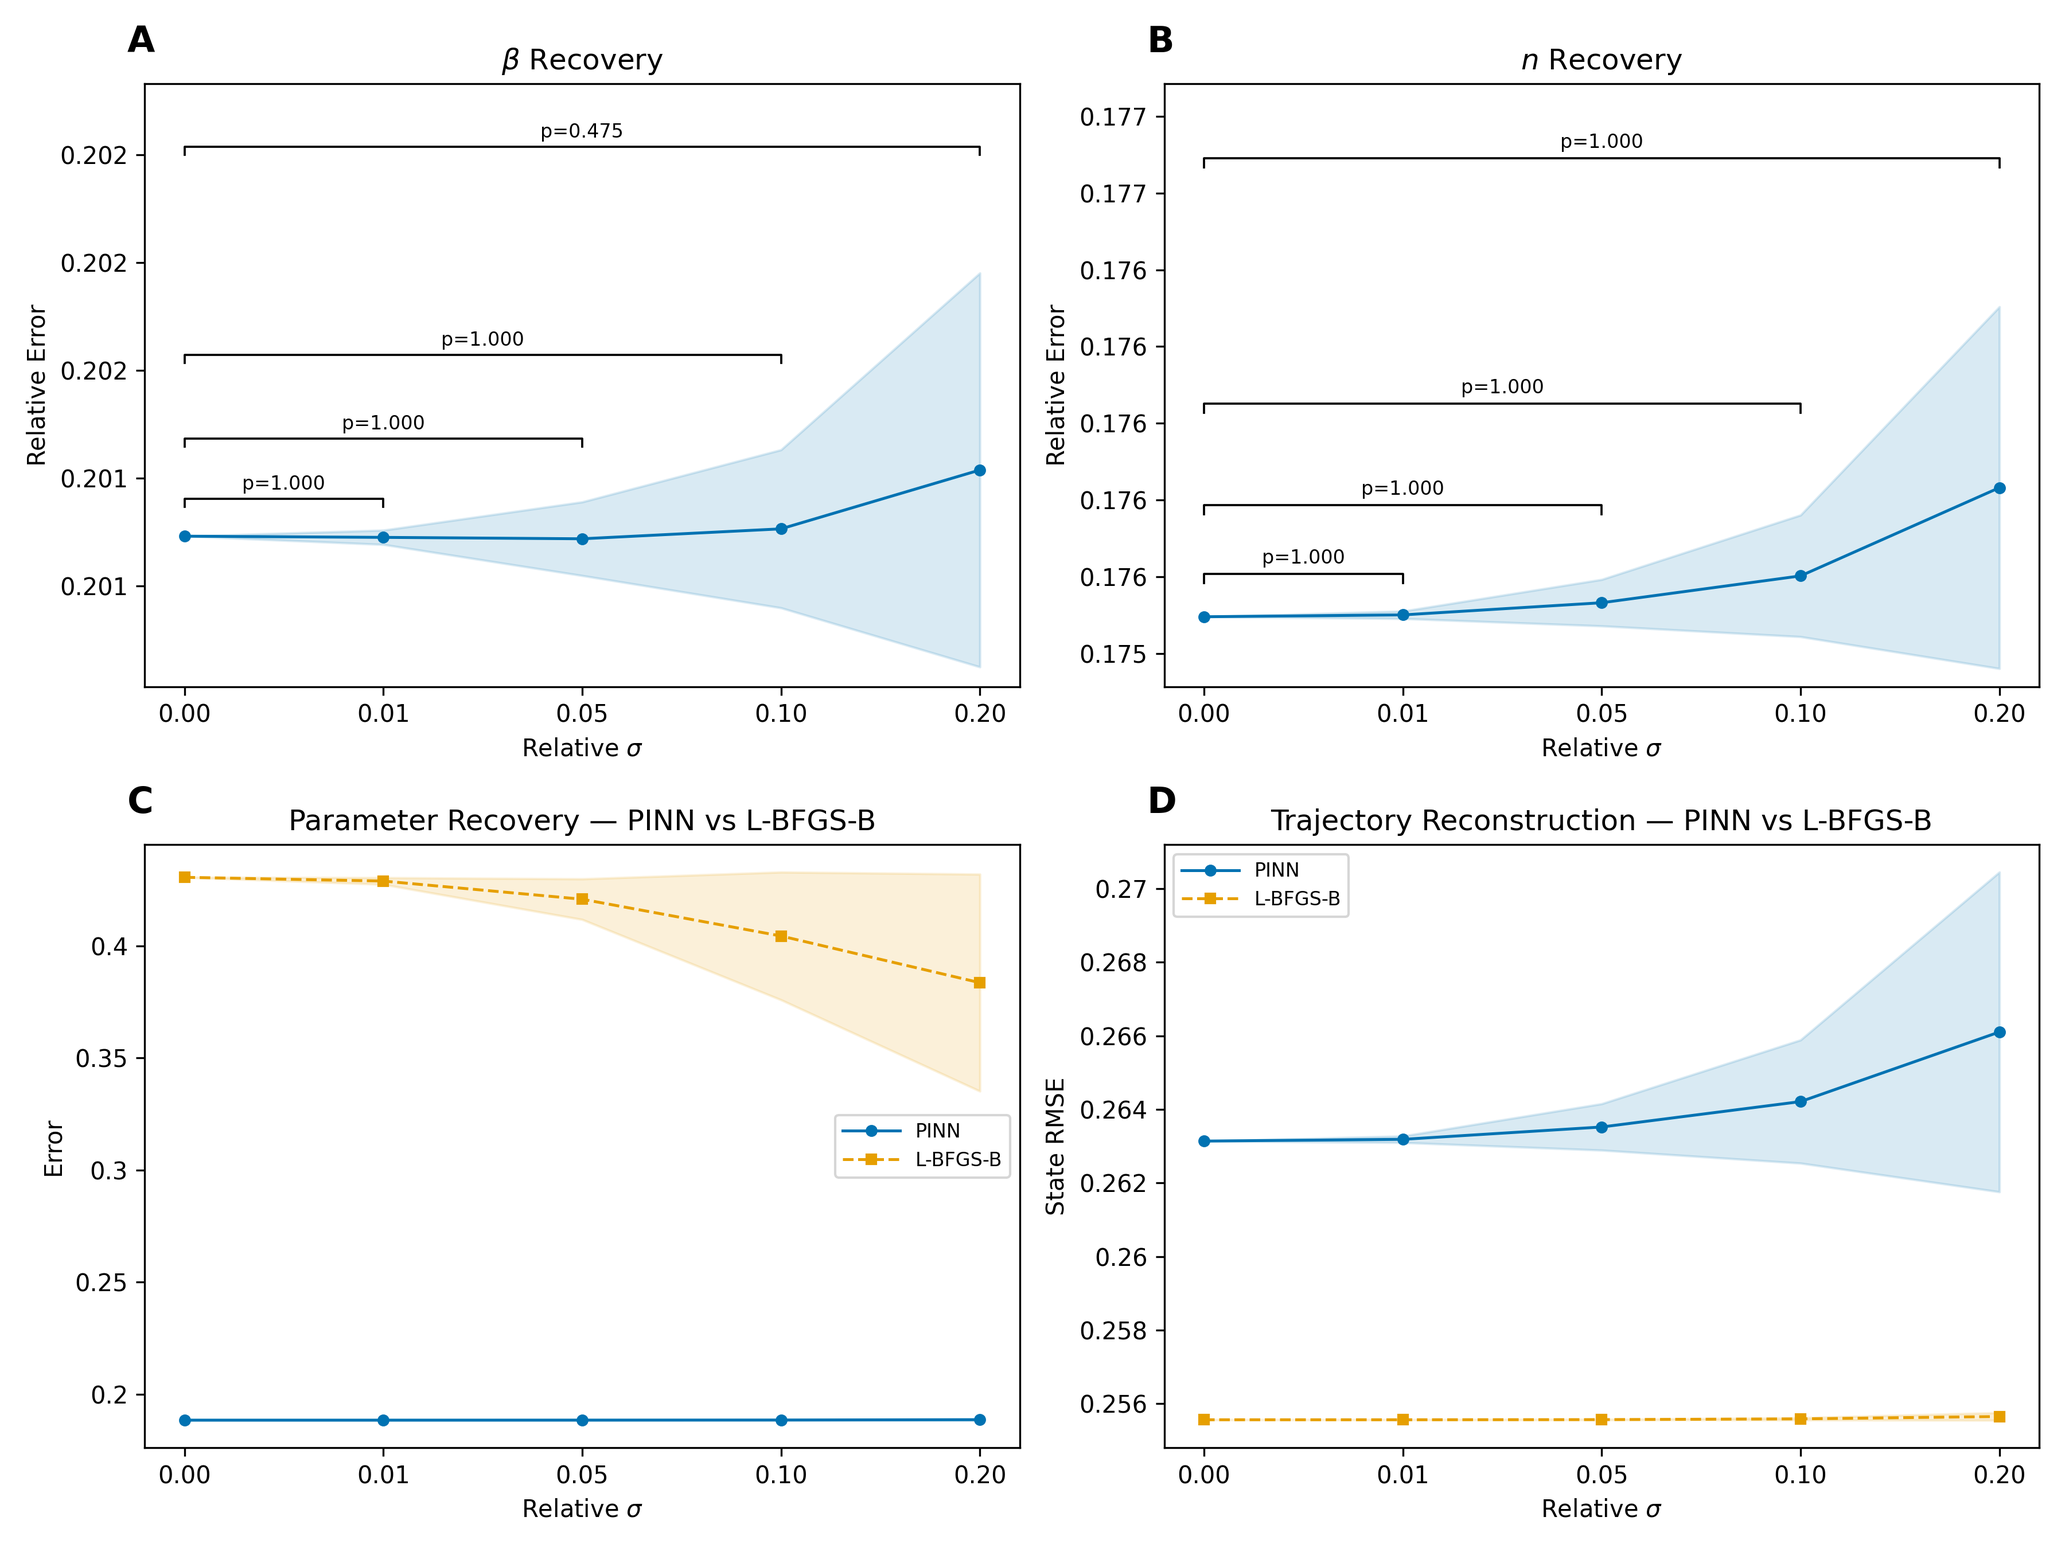
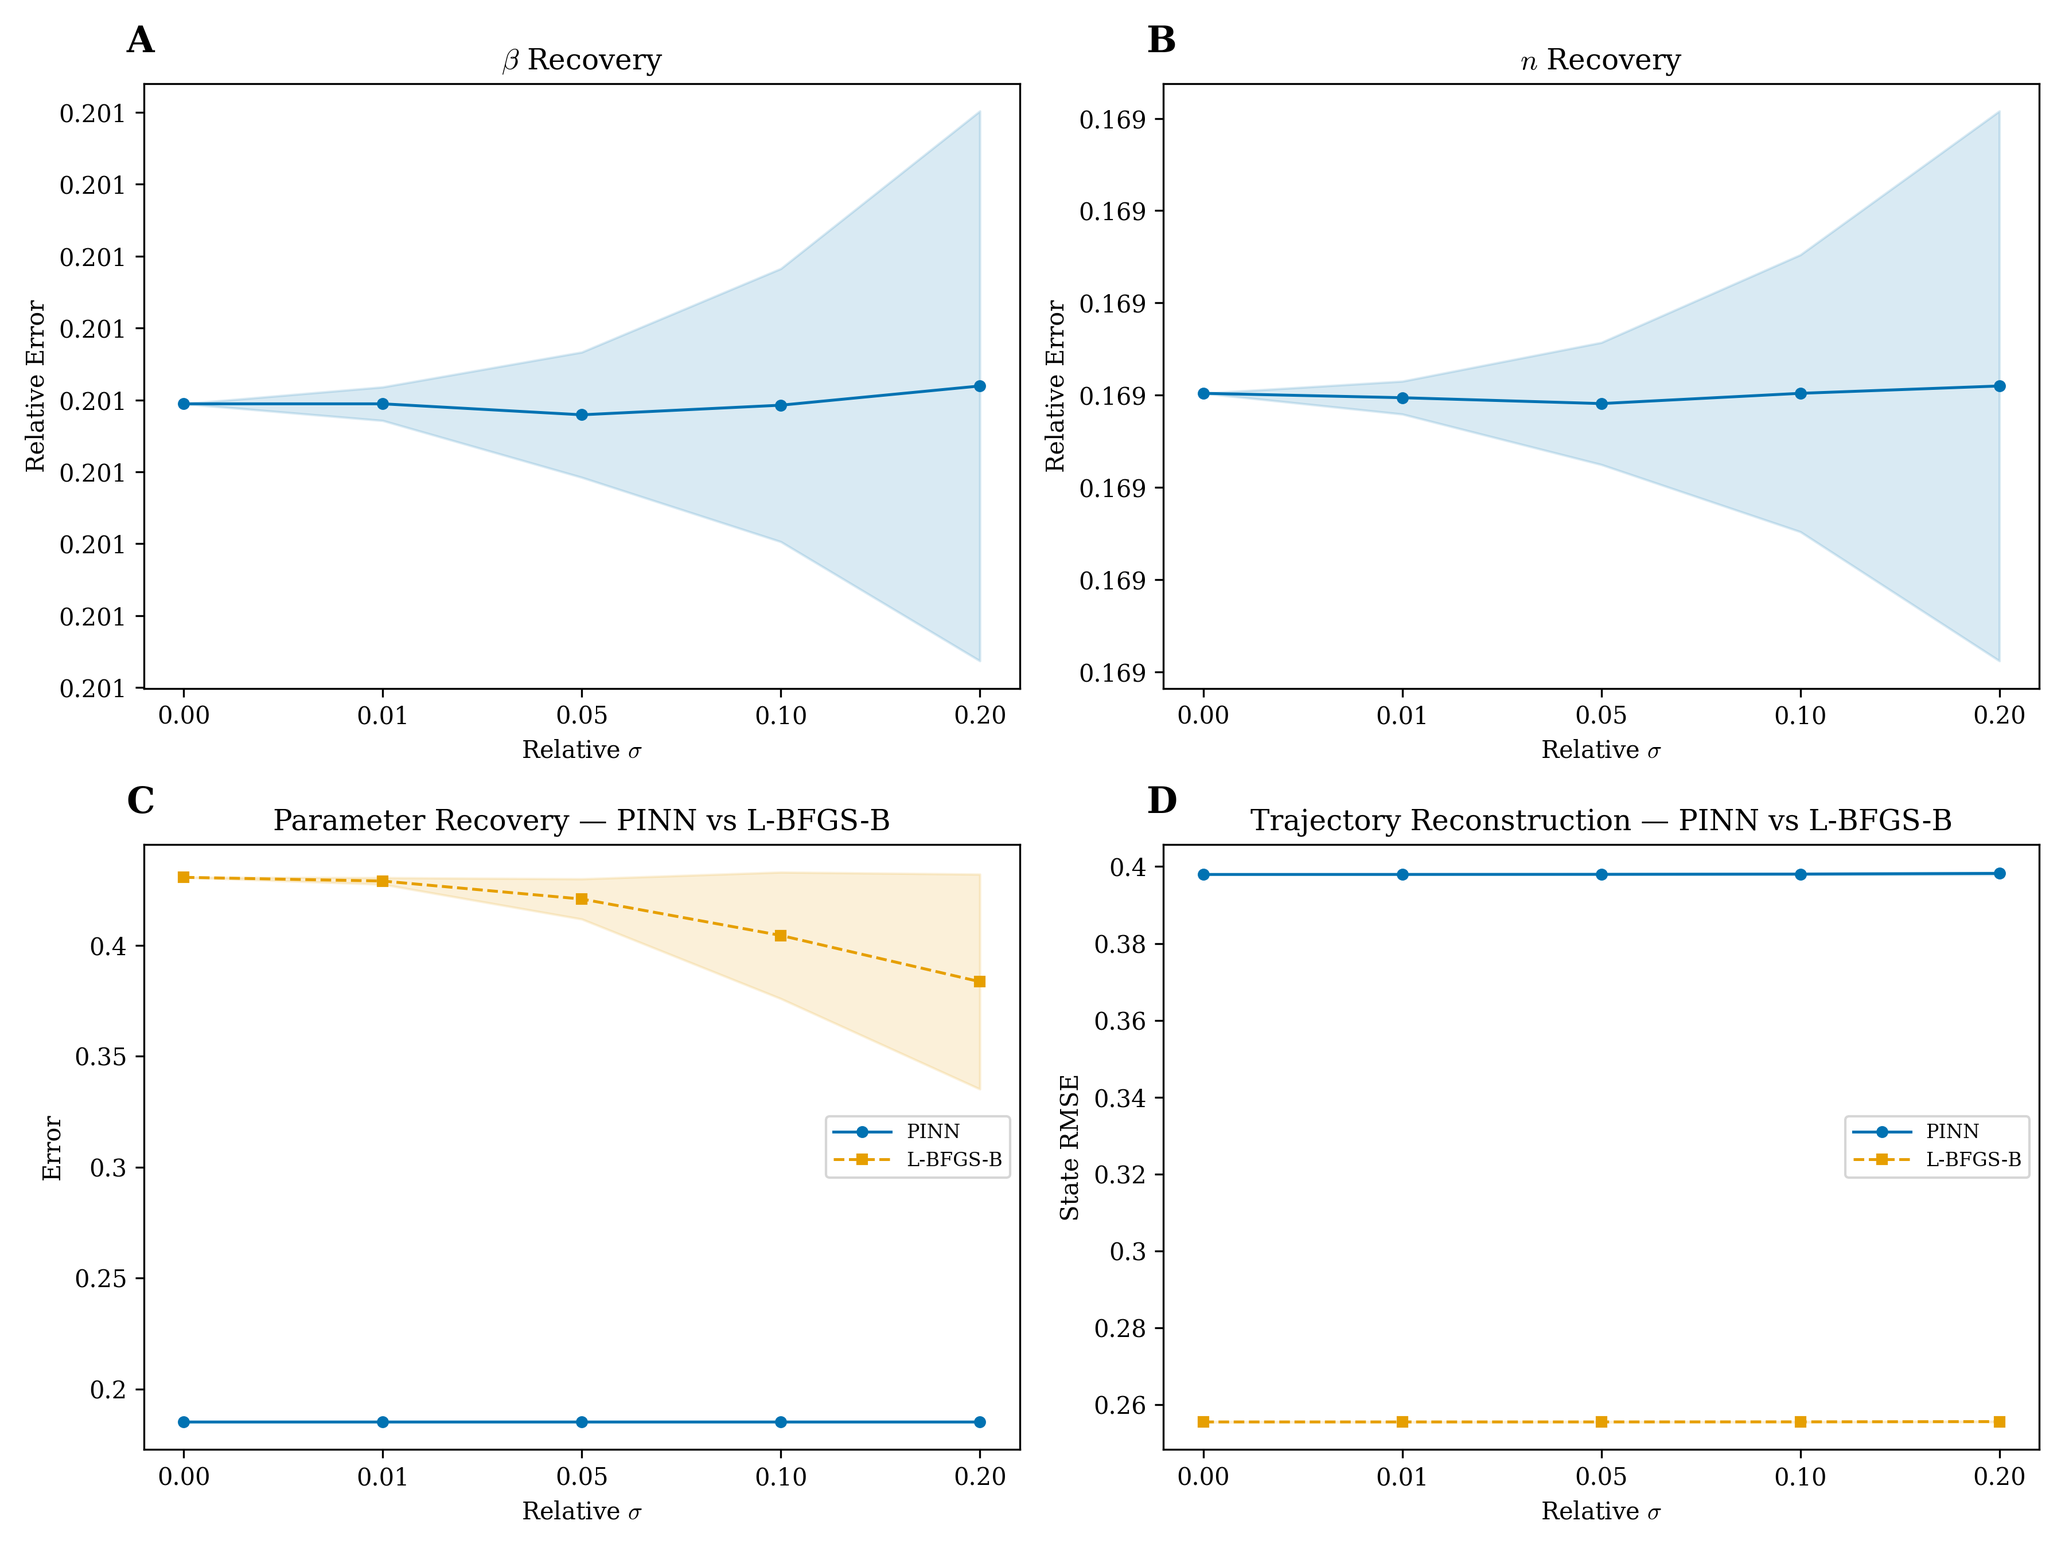
new tests, readme

diff --git a/scripts/experiments/exp1_noise_sweep.py b/scripts/experiments/exp1_noise_sweep.py
@@ -21,7 +21,13 @@ Figure: 4-panel 2×2 layout (12×9), line plots with mean ± SD
   - Panel D (1,1): state RMSE — PINN vs L-BFGS-B
 
 Significance: two-sided Mann–Whitney U, Holm–Bonferroni corrected, vs σ = 0 baseline.
-Applied to PINN results in panels A and B only.
+Applied to PINN results in panels A and B only; only significant comparisons
+(p < 0.05) are drawn as brackets — non-significant ones are omitted from the
+figure and reported in the text/results instead.
+Panels C and D instead compare PINN vs L-BFGS-B at each noise level (uncorrected
+two-sided Mann–Whitney U, same convention as the PINN-vs-classical comparisons in
+exp2/exp3/exp6); the curves never overlap, so significance is not marked on the
+figure and is reported in the text/results instead.
 
 Key finding expected: parameter recovery is relatively stable across this noise range;
 trajectory RMSE grows faster because the observation loss directly penalises trajectory
@@ -47,7 +53,9 @@ from experiments.experiment_utils import (
     ensure_project_directories,
     finalize_figure,
     make_synthetic_dataset,
+    mann_whitney_p_value,
     metric_values_by_group,
+    p_value_to_stars,
     pairwise_significance,
     write_csv,
     write_run_manifest,
@@ -225,11 +233,58 @@ def main():
     n_vals_by_noise = metric_values_by_group(raw_rows, "noise_level", "n_rel_error")
     parameter_vals_by_noise = metric_values_by_group(raw_rows, "noise_level", "parameter_rel_error")
     state_vals_by_noise = metric_values_by_group(raw_rows, "noise_level", "state_rmse")
+    cls_parameter_vals_by_noise = metric_values_by_group(raw_rows, "noise_level", "classical_parameter_rel_error")
+    cls_state_vals_by_noise = metric_values_by_group(raw_rows, "noise_level", "classical_state_rmse")
 
     beta_significance = pairwise_significance(beta_vals_by_noise, noise_comparisons)
     n_significance = pairwise_significance(n_vals_by_noise, noise_comparisons)
-    parameter_significance = pairwise_significance(parameter_vals_by_noise, noise_comparisons)
-    state_significance = pairwise_significance(state_vals_by_noise, noise_comparisons)
+
+    # PINN vs L-BFGS-B at each noise level (panels C/D), not vs the σ = 0 baseline.
+    parameter_pinn_vs_classical_p = {
+        v: mann_whitney_p_value(parameter_vals_by_noise[v], cls_parameter_vals_by_noise[v])
+        for v in noise_values
+    }
+    state_pinn_vs_classical_p = {
+        v: mann_whitney_p_value(state_vals_by_noise[v], cls_state_vals_by_noise[v])
+        for v in noise_values
+    }
+
+    # Significance is not fully shown on the figure (only-significant brackets in A/B,
+    # no markers at all in C/D) — exact p-values for the results text live here instead.
+    significance_rows = []
+    for v in noise_values:
+        if v == baseline_noise:
+            continue
+        for comparison_name, significance in (("beta_vs_sigma0", beta_significance), ("n_vs_sigma0", n_significance)):
+            entry = significance.get((baseline_noise, v)) or significance.get((v, baseline_noise))
+            significance_rows.append(
+                {
+                    "comparison": comparison_name,
+                    "noise_level": v,
+                    "raw_p_value": entry["raw_p_value"],
+                    "adjusted_p_value": entry["adjusted_p_value"],
+                    "stars": entry["stars"],
+                }
+            )
+    for v in noise_values:
+        for comparison_name, p_value in (
+            ("parameter_pinn_vs_classical", parameter_pinn_vs_classical_p[v]),
+            ("state_pinn_vs_classical", state_pinn_vs_classical_p[v]),
+        ):
+            significance_rows.append(
+                {
+                    "comparison": comparison_name,
+                    "noise_level": v,
+                    "raw_p_value": p_value,
+                    "adjusted_p_value": "",
+                    "stars": p_value_to_stars(p_value),
+                }
+            )
+    write_csv(
+        os.path.join(results_dir, "exp1_noise_sweep_significance.csv"),
+        significance_rows,
+        ["comparison", "noise_level", "raw_p_value", "adjusted_p_value", "stars"],
+    )
 
     plt.rcParams['axes.formatter.useoffset'] = False
 
@@ -258,7 +313,8 @@ def main():
     beta_tops = {v: beta_means[i] + (beta_stds[i] if show_eb else 0.0) for i, v in enumerate(noise_values)}
     annotate_pairwise_comparisons(
         axes[0, 0], x_positions=position_by_noise, top_values=beta_tops,
-        comparisons=noise_comparisons, significance=beta_significance, use_adjusted_p_value=True)
+        comparisons=noise_comparisons, significance=beta_significance, use_adjusted_p_value=True,
+        only_significant=True)
     _xformat(axes[0, 0])
     axes[0, 0].set_ylabel("Relative Error")
     axes[0, 0].set_title(r"$\beta$ Recovery")
@@ -269,7 +325,8 @@ def main():
     n_tops = {v: n_means[i] + (n_stds[i] if show_eb else 0.0) for i, v in enumerate(noise_values)}
     annotate_pairwise_comparisons(
         axes[0, 1], x_positions=position_by_noise, top_values=n_tops,
-        comparisons=noise_comparisons, significance=n_significance, use_adjusted_p_value=True)
+        comparisons=noise_comparisons, significance=n_significance, use_adjusted_p_value=True,
+        only_significant=True)
     _xformat(axes[0, 1])
     axes[0, 1].set_ylabel("Relative Error")
     axes[0, 1].set_title(r"$n$ Recovery")

diff --git a/scripts/experiments/exp3_sampling_density.py b/scripts/experiments/exp3_sampling_density.py
@@ -86,6 +86,7 @@ results_dir = "results/exp3_sampling_density"
 figure_path = "figures/exp3_sampling_density.png"  # kept for pilot compatibility
 table_path = "tables/exp3_sampling_density.tex"
 observability_table_path = "tables/observability.tex"
+exp2_results_dir = "results/exp2_partial_observation"
 
 _X0 = [1.0, 1.0, 1.2]
 
@@ -194,6 +195,7 @@ def _write_sampling_density_table(path, summary_rows, raw_rows):
 
     footer = (
         r"\bottomrule" + "\n"
+        r"\multicolumn{6}{l}{\footnotesize *** $p < 0.001$, ** $p < 0.01$, * $p < 0.05$.} \\" + "\n"
         r"\end{tabular}" + "\n"
         r"\end{table}"
     )
@@ -207,10 +209,8 @@ def _write_sampling_density_table(path, summary_rows, raw_rows):
     print(f"LaTeX table written to {path}")
 
 
-def _load_exp2_raw(results_base="results"):
-    csv_path = os.path.join(
-        results_base, "exp2_partial_observation", "exp2_partial_observation_raw.csv"
-    )
+def _load_exp2_raw(exp2_results_dir):
+    csv_path = os.path.join(exp2_results_dir, "exp2_partial_observation_raw.csv")
     if not os.path.exists(csv_path):
         return None
     rows = []
@@ -318,6 +318,7 @@ def _write_combined_observability_table(
 
     footer = (
         r"\bottomrule" + "\n"
+        r"\multicolumn{6}{l}{\footnotesize *** $p < 0.001$, ** $p < 0.01$, * $p < 0.05$.} \\" + "\n"
         r"\end{tabular}" + "\n"
         r"\end{table}"
     )
@@ -425,8 +426,7 @@ def main():
 
     _write_sampling_density_table(table_path, summary_rows, raw_rows)
 
-    results_base = os.path.dirname(os.path.abspath(results_dir))
-    partial_obs_raw = _load_exp2_raw(results_base=results_base)
+    partial_obs_raw = _load_exp2_raw(exp2_results_dir)
     if partial_obs_raw is not None:
         _write_combined_observability_table(
             observability_table_path, partial_obs_raw, summary_rows, raw_rows,

diff --git a/scripts/experiments/experiment_utils.py b/scripts/experiments/experiment_utils.py
@@ -30,6 +30,13 @@ import tensorflow as tf
 
 from data.generate_data import protein_repressilator_rhs # Import the ODE function
 
+# Match the paper's LaTeX typesetting (Computer Modern) without requiring a LaTeX install.
+plt.rcParams.update({
+    "font.family": "serif",
+    "font.serif": ["Computer Modern Roman", "CMU Serif", "DejaVu Serif"],
+    "mathtext.fontset": "cm",
+})
+
 # Default parameters for synthetic dataset generation
 default_x0 = [1.0, 1.0, 1.2]
 default_t_max = 20.0
@@ -224,6 +231,7 @@ def annotate_pairwise_comparisons(
     comparisons,
     significance,
     use_adjusted_p_value=True,
+    only_significant=False,
 ):
     if not comparisons:
         return
@@ -247,6 +255,8 @@ def annotate_pairwise_comparisons(
     stack_step = 0.12 * value_span
     label_offset = 0.02 * value_span
 
+    p_value_key = "adjusted_p_value" if use_adjusted_p_value else "raw_p_value"
+
     valid_comparisons = []
     for group_a, group_b in comparisons:
         if (
@@ -255,6 +265,11 @@ def annotate_pairwise_comparisons(
             and group_a in top_values
             and group_b in top_values
         ):
+            if only_significant:
+                entry = significance.get((group_a, group_b)) or significance.get((group_b, group_a))
+                p_value = float(entry.get(p_value_key, float("nan"))) if entry else float("nan")
+                if not p_value_to_stars(p_value):
+                    continue
             valid_comparisons.append((group_a, group_b))
     if not valid_comparisons:
         return

diff --git a/scripts/experiments/run_pilot.py b/scripts/experiments/run_pilot.py
@@ -10,10 +10,10 @@ It overrides a small subset of experiment globals at runtime:
   - figure_path    → figures/pilot_<exp_name>.png
 
 Usage:
-  python run_pilot.py                          # all experiments, 100 iters, full seed set
-  python run_pilot.py --train-iterations 500   # slightly more converged check
-  python run_pilot.py --seeds 1                # 1 seed per experiment
-  python run_pilot.py --only exp1_noise_sweep exp4_initial_guess
+  python scripts/experiments/run_pilot.py                          # all experiments, 100 iters, full seed set
+  python scripts/experiments/run_pilot.py --train-iterations 500   # slightly more converged check
+  python scripts/experiments/run_pilot.py --seeds 1                # 1 seed per experiment
+  python scripts/experiments/run_pilot.py --only exp1_noise_sweep exp4_initial_guess
 """
 
 from __future__ import annotations
@@ -26,7 +26,8 @@ from dataclasses import dataclass
 from typing import Any, Dict
 
 
-ROOT = os.path.dirname(os.path.abspath(__file__))
+# Project root, i.e. two levels above this file (scripts/experiments/run_pilot.py)
+ROOT = os.path.dirname(os.path.dirname(os.path.dirname(os.path.abspath(__file__))))
 if ROOT not in sys.path:
     sys.path.insert(0, ROOT)
 

diff --git a/tables/exp6_loss_weights.tex b/tables/exp6_loss_weights.tex
@@ -1,6 +1,6 @@
 \begin{table}[htbp]
 \centering
-\caption{Physics loss weight sensitivity. Parameter error and state RMSE (mean $\pm$ SD, $n = 5$ seeds) for PINN across five values of the physics loss weight $\lambda_f$ ($\lambda_0 = \lambda_y = 1$ fixed). $p$-values (two-sided Mann--Whitney U) compare each $\lambda_f$ to the baseline $\lambda_f = 1$.}
+\caption{Physics loss weight sensitivity. $\beta$ error, $n$ error, and state RMSE (mean $\pm$ SD, $n = 5$ seeds) for PINN across five values of the physics loss weight $\lambda_f$ ($\lambda_0 = \lambda_y = 1$ fixed). $p$-values (two-sided Mann--Whitney U) compare each $\lambda_f$ to the baseline $\lambda_f = 1$.}
 \label{tab:exp6_loss_weights}
 \begin{tabular}{lccccc}
 \toprule
@@ -12,5 +12,6 @@ $1.0$ (baseline) & $0.201 \pm 0.000$ & $0.176 \pm 0.000$ & $0.264 \pm 0.001$ & -
 $10.0$ & $0.202 \pm 0.000$ & $0.174 \pm 0.000$ & $0.270 \pm 0.000$ & $p = 0.008$ ** & $p = 0.008$ ** \\
 $100.0$ & $0.202 \pm 0.000$ & $0.174 \pm 0.000$ & $0.271 \pm 0.000$ & $p = 0.008$ ** & $p = 0.011$ * \\
 \bottomrule
+\multicolumn{6}{l}{\footnotesize *** $p < 0.001$, ** $p < 0.01$, * $p < 0.05$.} \\
 \end{tabular}
 \end{table}

diff --git a/scripts/experiments/exp4_initial_guess.py b/scripts/experiments/exp4_initial_guess.py
@@ -141,7 +141,7 @@ def main():
 
     plt.rcParams['axes.formatter.useoffset'] = False
 
-    fig, ax = plt.subplots(1, 1, figsize=(8, 6))
+    fig, ax = plt.subplots(1, 1, figsize=(5, 4.2))
 
     vmax = float(np.nanmax(combined_heatmap))
 
@@ -152,8 +152,8 @@ def main():
     )
     ax.set_xticks(range(len(beta_guesses)), [str(v) for v in beta_guesses])
     ax.set_yticks(range(len(n_guesses)), [str(v) for v in n_guesses])
-    ax.set_xlabel(r"Initial $\beta_0$")
-    ax.set_ylabel(r"Initial $n_0$")
+    ax.set_xlabel(r"Initial $\beta_0$", fontsize=11)
+    ax.set_ylabel(r"Initial $n_0$", fontsize=11)
     ax.set_title("Sensitivity to Initial Parameter Guess")
 
     if star_bx is not None and star_nx is not None:

diff --git a/tables/exp5_regime_comparison.tex b/tables/exp5_regime_comparison.tex
@@ -12,5 +12,6 @@ Oscillatory ($\beta=5$) & $0.201 \pm 0.000$ & $0.176 \pm 0.000$ & $0.264 \pm 0.0
 Stable ($\beta=8$) & $0.497 \pm 0.000$ & $0.627 \pm 0.000$ & $0.602 \pm 0.000$ & -- & -- \\
 Oscillatory ($\beta=8$) & $0.498 \pm 0.000$ & $0.184 \pm 0.000$ & $0.861 \pm 0.002$ & $p = 0.024$ * & $p = 0.024$ * \\
 \bottomrule
+\multicolumn{6}{l}{\footnotesize *** $p < 0.001$, ** $p < 0.01$, * $p < 0.05$.} \\
 \end{tabular}
 \end{table}

diff --git a/tables/observability.tex b/tables/observability.tex
@@ -19,5 +19,6 @@ Condition & PINN & L-BFGS-B & PINN & L-BFGS-B & $p$ (PINN vs L-BFGS-B) \\
 \quad 25 & $0.188 \pm 0.000$ & $0.318 \pm 0.117$ & $0.264 \pm 0.001$ & $0.256 \pm 0.000$ & $p = 0.151$ \\
 \quad 10 & $0.188 \pm 0.000$ & $0.534 \pm 0.202$ & $0.267 \pm 0.001$ & $0.256 \pm 0.001$ & $p = 0.151$ \\
 \bottomrule
+\multicolumn{6}{l}{\footnotesize *** $p < 0.001$, ** $p < 0.01$, * $p < 0.05$.} \\
 \end{tabular}
 \end{table}

diff --git a/tables/exp2_partial_observation.tex b/tables/exp2_partial_observation.tex
@@ -12,5 +12,6 @@ Repressors & PINN & L-BFGS-B & PINN & L-BFGS-B & $p$ (PINN vs L-BFGS-B) \\
 2/3 & $0.188 \pm 0.000$ & $0.423 \pm 0.008$ & $0.266 \pm 0.001$ & $0.256 \pm 0.000$ & $p = 0.008$ ** \\
 1/3 & $0.188 \pm 0.000$ & $0.554 \pm 0.005$ & $0.267 \pm 0.001$ & $0.256 \pm 0.000$ & $p = 0.008$ ** \\
 \bottomrule
+\multicolumn{6}{l}{\footnotesize *** $p < 0.001$, ** $p < 0.01$, * $p < 0.05$.} \\
 \end{tabular}
 \end{table}

diff --git a/tables/exp3_sampling_density.tex b/tables/exp3_sampling_density.tex
@@ -13,5 +13,6 @@ Time points & PINN & L-BFGS-B & PINN & L-BFGS-B & $p$ (PINN vs L-BFGS-B) \\
 25 & $0.188 \pm 0.000$ & $0.318 \pm 0.117$ & $0.264 \pm 0.001$ & $0.256 \pm 0.000$ & $p = 0.151$ \\
 10 & $0.188 \pm 0.000$ & $0.534 \pm 0.202$ & $0.267 \pm 0.001$ & $0.256 \pm 0.001$ & $p = 0.151$ \\
 \bottomrule
+\multicolumn{6}{l}{\footnotesize *** $p < 0.001$, ** $p < 0.01$, * $p < 0.05$.} \\
 \end{tabular}
 \end{table}

diff --git a/scripts/experiments/exp5_regime_comparison.py b/scripts/experiments/exp5_regime_comparison.py
@@ -130,6 +130,7 @@ def _write_latex_table(path, rows_by_case, beta_significance, n_significance):
 
     footer = (
         r"\bottomrule" + "\n"
+        r"\multicolumn{6}{l}{\footnotesize *** $p < 0.001$, ** $p < 0.01$, * $p < 0.05$.} \\" + "\n"
         r"\end{tabular}" + "\n"
         r"\end{table}"
     )

diff --git a/scripts/experiments/exp2_partial_observation.py b/scripts/experiments/exp2_partial_observation.py
@@ -189,6 +189,7 @@ def _write_latex_table(path, summary_rows, raw_rows):
 
     footer = (
         r"\bottomrule" + "\n"
+        r"\multicolumn{6}{l}{\footnotesize *** $p < 0.001$, ** $p < 0.01$, * $p < 0.05$.} \\" + "\n"
         r"\end{tabular}" + "\n"
         r"\end{table}"
     )
